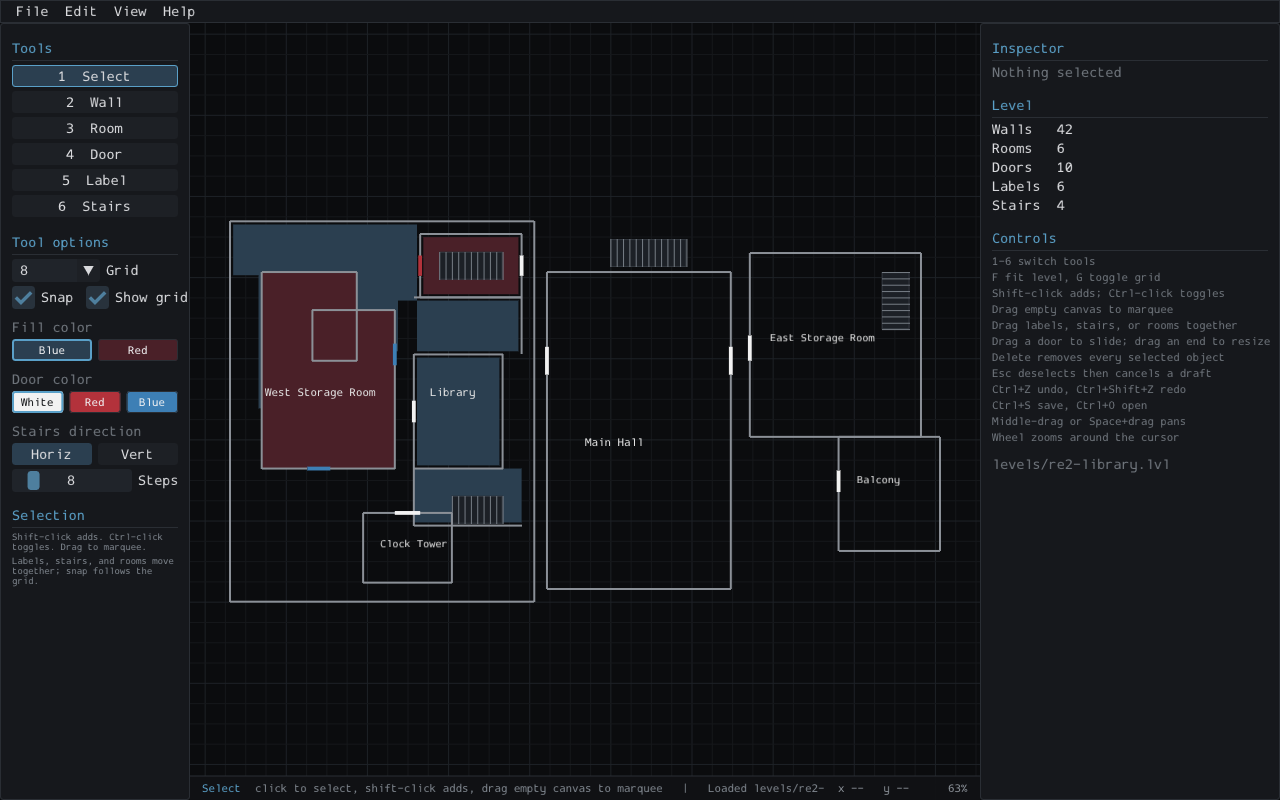
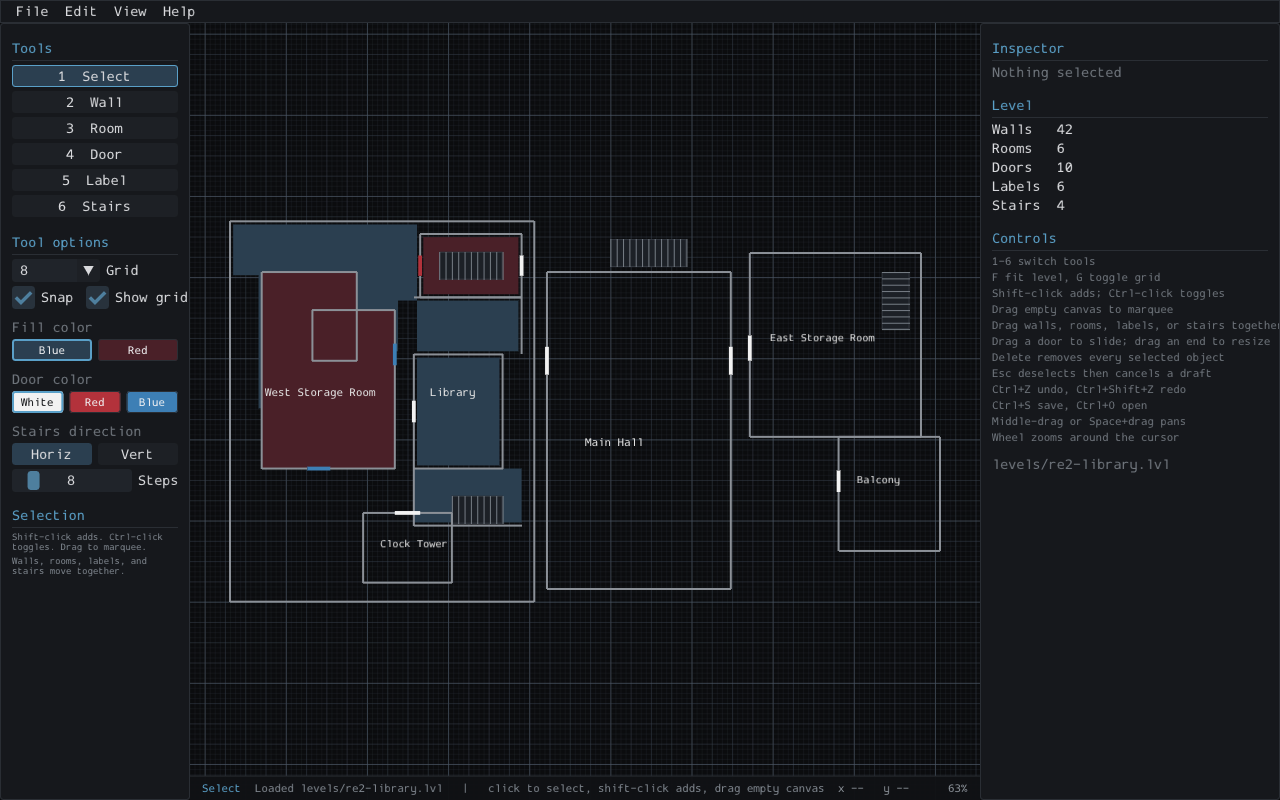
Document the grid following the Grid setting

Changed region(s): [[0.2812, 0.9688, 0.625, 1.0], [0.0, 0.6875, 0.125, 0.7188], [0.2188, 0.9688, 0.25, 1.0]]

diff --git a/src/editor.c b/src/editor.c
@@ -22,9 +22,6 @@
 #define CLOSE_TOL_PX 12.0f
 #define DRAG_END_PX 8.0f
 #define CANVAS_BG 0x0b0c0e
-#define GRID_FINE 0x111316
-#define GRID_COL 0x181b1f
-#define GRID_BRIGHT 0x232830
 #define WALL_COL 0x8b9097
 #define ROOM_BLUE_COL 0x2b3f50
 #define ROOM_RED_COL 0x4a2028

diff --git a/docs/editor-ui-spec.md b/docs/editor-ui-spec.md
@@ -18,7 +18,7 @@ Panels use `ImGuiWindowFlags_NoTitleBar | NoResize | NoMove | NoCollapse | NoScr
 
 ## Visual language
 
-Match the reference. Near-black canvas `#0b0c0e`. Subtle grid at 32 world units, `#15171a`, with a brighter grid line every 4th. Walls `#8b9097`, 2 screen pixels wide. Room blue `#2b3f50`, room red `#4a2028`, both opaque. Doors white `#f2f2f2`, red `#b3323b`, blue `#3d7fb5`. Labels `#e6e6e6`. Stairs `#767d85` treads on a slightly lighter footprint fill. Selection accent `#5aa0c8` with a 2 px outline or handles.
+Match the reference. Near-black canvas `#0b0c0e`. Grid lines at the selected Grid size, subtle at `#333b45` with low alpha, a brighter line every 4 cells and the brightest every 16. The grid gets coarser only when the fine lines would be closer than 4 screen pixels. Walls `#8b9097`, 2 screen pixels wide. Room blue `#2b3f50`, room red `#4a2028`, both opaque. Doors white `#f2f2f2`, red `#b3323b`, blue `#3d7fb5`. Labels `#e6e6e6`. Stairs `#767d85` treads on a slightly lighter footprint fill. Selection accent `#5aa0c8` with a 2 px outline or handles.
 
 Dark ImGui theme: window background `#101114`, panel `#16181c`, frame `#1d2025`, borders `#2a2e34`, text `#d9dadd`, accent `#4e7f9e`. Rounded corners 3 px. Sentence-case headings.
 

diff --git a/README.md b/README.md
@@ -46,7 +46,7 @@ Load another level with `./build/editor --level path/to/level.lvl`. The `levels/
 - Add standard stairs with 2 to 48 steps. The step count sets the run length, and each run is horizontal or vertical.
 - Select, move, edit, and delete the placed objects. Deleting a wall also deletes the doors hosted by it.
 - Click to select, shift-click to add, Ctrl-click to remove, or drag from empty canvas to marquee select. Delete removes the whole selection in one step, and dragging anything selected moves the group together.
-- Snap to the grid on placement and movement. The grid sizes are 4, 8, 16, and 32 world units, and the Snap checkbox turns snapping off.
+- Snap to the grid on placement and movement. The drawn grid follows the selected Grid size, so every line is a position objects can land on. The grid sizes are 4, 8, 16, and 32 world units, and the Snap checkbox turns snapping off.
 - Pan, zoom, fit the level, undo and redo, save, and load.
 
 ## Controls
